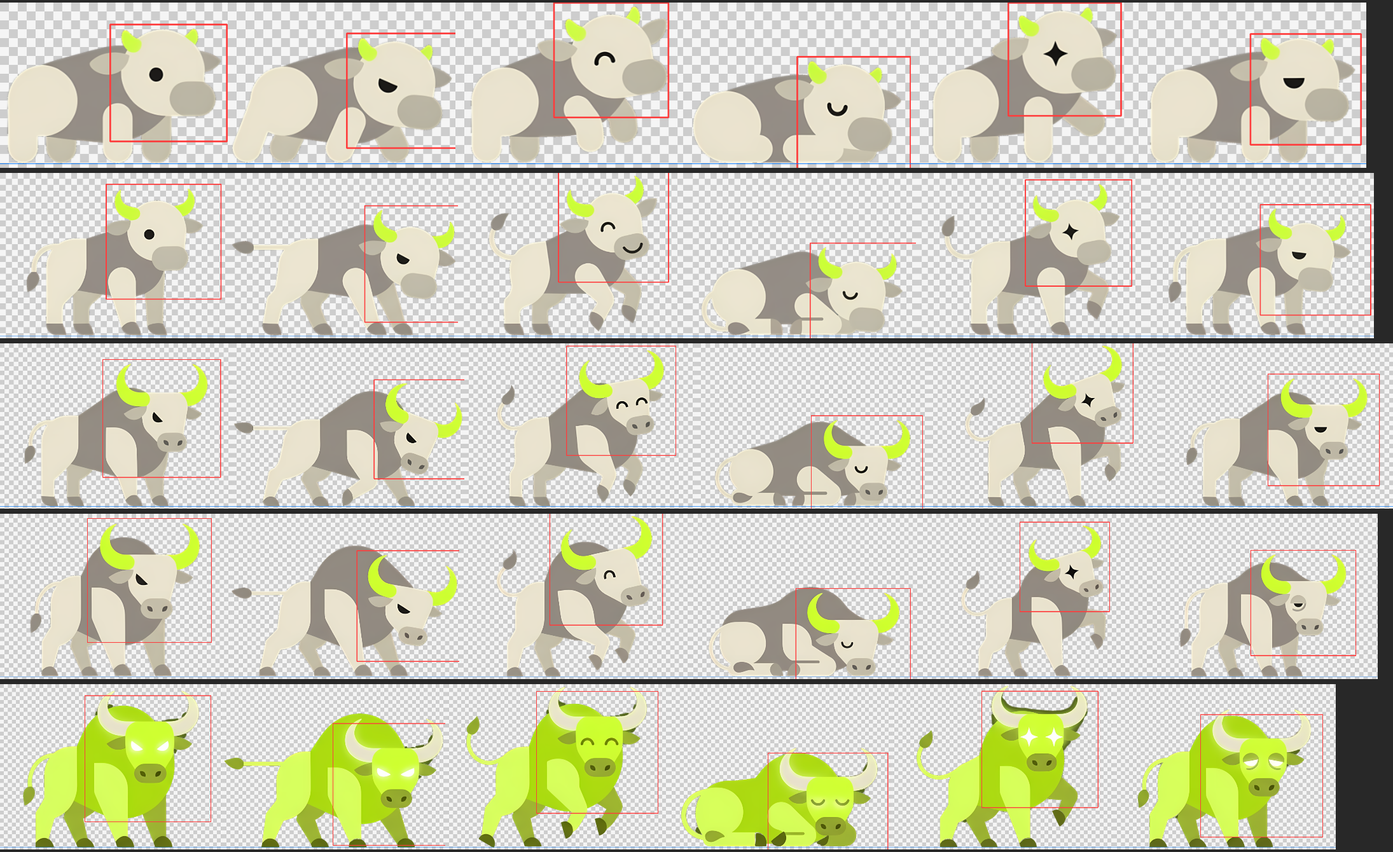
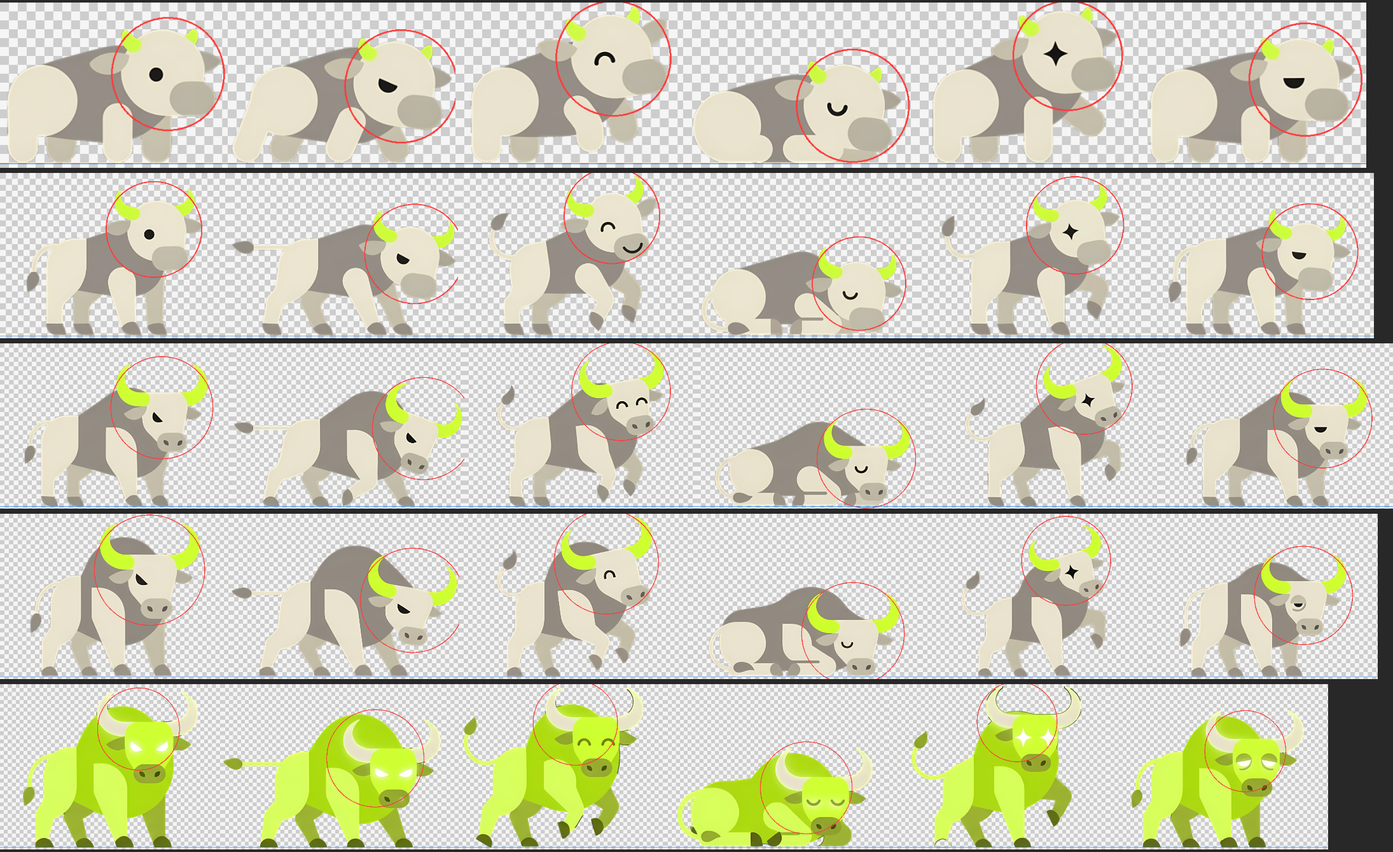
5.5c 验收反馈（进行中）：Milo 英文命名、舞台限高、头像圆形裁切、荧光角微光、Milo 抠图过渡版
- 跟 Milo 有关的文字一律写「Milo」，只在介绍时（故事引导、品牌命名）写「米洛（Milo）」
- Mascot 支持 --mascot-max-h：固定高度的舞台（牛龄演示、奖励弹窗、付费墙）按高度缩放，Milo 不再出格
- 头像框改为逐张标定的「头 + 角」（脚本 HEAD 表），MascotHead 圆形裁切，牛龄徽章头像铺满圆
- 非 Milo 另出 <牛龄>-<状态>-lime.webp（只有荧光的角），模糊后垫在图下当微光；Milo 保持全身泛光
- Milo 抠图过渡版：BiRefNet（HR-matting，2048）出 α + 硬边圈定牛身；源图辉光太强，待用户用 Nano Banana 出无辉光图后改回硬边抠图

Claude-Session: https://claude.ai/code/session_01VtzVRg4P2pmqxTgWpjWk5a

diff --git a/src/playground/catalog.tsx b/src/playground/catalog.tsx
@@ -65,9 +65,9 @@ export const CN: Record<string, string> = {
   track: '已开始 · 0 组', partial: '进行中', full: '满环', home: '首页', body: '身体', gains: '增量', log: '记录', me: '我的', success: '成功', undo: '可撤销',
   suggest: '建议减量', week: '减量周', quiet: '一行小字', 'pool-empty': '动作池不足', resume: '继续上次训练', info: '信息', page: '子页', session: '训练中',
   eyebrow: '带日期与附件', pill: '小胶囊', open: '展开', loadingState: '加载中',
-  newborn: '牛犊', young: '小牛', sturdy: '壮牛', bull: '公牛', milo: '米洛', 'm-idle': '平常', 'm-focused': '专注', 'm-happy': '开心', 'm-rest': '恢复日', 'm-pr': '破纪录', 'm-deload': '减量周', idle: '平常', training: '训练中',
-  'r-stage': '升段', 'r-milo': '升段 · 米洛', 'r-pr': '破纪录', 'r-streak': '连胜里程碑', 'r-level': '升小级', 'r-cycle': '周期完成', free: '免费', pro: 'Pro 会员',
-  'b-compact': '紧凑（「我的」顶部）', 'b-full': '完整（牛龄页头）', 'g-normal': '进行中', 'g-near': '快升级', 'g-stage': '下一级是升段', 'g-max': '米洛满级',
+  newborn: '牛犊', young: '小牛', sturdy: '壮牛', bull: '公牛', milo: 'Milo', 'm-idle': '平常', 'm-focused': '专注', 'm-happy': '开心', 'm-rest': '恢复日', 'm-pr': '破纪录', 'm-deload': '减量周', idle: '平常', training: '训练中',
+  'r-stage': '升段', 'r-milo': '升段 · Milo', 'r-pr': '破纪录', 'r-streak': '连胜里程碑', 'r-level': '升小级', 'r-cycle': '周期完成', free: '免费', pro: 'Pro 会员',
+  'b-compact': '紧凑（「我的」顶部）', 'b-full': '完整（牛龄页头）', 'g-normal': '进行中', 'g-near': '快升级', 'g-stage': '下一级是升段', 'g-max': 'Milo 满级',
   's-zero': '0 周', 's-open': '本周进行中', 's-kept': '本周已守约', 's-risk': '快断了', 's-frozen': '用了冻结卡', 's-deload': '减量周', 's-milestone': '里程碑周',
   'f-have': '有卡', 'f-none': '没卡', 'f-used': '刚自动使用', 'c-merchant': '商家券', 'c-shipping': '免邮券', 'c-trial': '会员体验', 'c-freeze': '冻结卡',
   'c-redeem': '可兑换', 'c-short': '牛劲不够', 'c-available': '可用', 'c-used': '已用', 'c-expired': '已过期', belt: '腰带', straps: '助力带', protein: '蛋白质与睡眠', creatine: '肌酸', knee: '护膝',
@@ -408,7 +408,7 @@ export const CATALOG: Entry[] = [
   },
   /* ---------------- 品牌（阶段 5.5b，2026-10-05） ---------------- */
   {
-    name: 'Mascot', group: '品牌', desc: 'IP 小牛（PNG）：用户按意向图 3_27AM 用 Nano Banana 高清重制，scripts/mascot_png.py 切图、Real-ESRGAN 4 倍超分、抠图（边缘反解透明度不留黑边，只留牛本身）。5 种牛龄（牛犊 · 小牛 · 壮牛 · 公牛 · 米洛）× 6 种状态；前四种单眼，米洛双眼发光。特效由代码生成：专注 = 速度线、恢复日 = 飘 z、破纪录 = 碎屑、米洛 = 泛光 + 四角星 + 扫光。同一牛龄同比例、同地面线，换状态不跳；动效以地面线为支点整只呼吸 / 前压 / 小跳 / 欢呼 / 叹气，减少动态效果时静止。只出现在品牌位置（引导、奖励、牛龄、空态、商城、会员）。',
+    name: 'Mascot', group: '品牌', desc: 'IP 小牛（PNG）：用户按意向图 3_27AM 用 Nano Banana 高清重制，scripts/mascot_png.py 切图、Real-ESRGAN 4 倍超分、抠图（边缘反解透明度不留黑边，只留牛本身；Milo 用 BiRefNet 直接出透明度，泛光扣得干净）。5 种牛龄（牛犊 · 小牛 · 壮牛 · 公牛 · Milo）× 6 种状态；前四种单眼，Milo 双眼发光。特效由代码生成：专注 = 速度线、恢复日 = 飘 z、破纪录 = 碎屑、Milo = 全身泛光 + 四角星 + 扫光；其余牛龄的荧光角带一圈会呼吸的微光。同一牛龄同比例、同地面线，换状态不跳；动效以地面线为支点整只呼吸 / 前压 / 小跳 / 欢呼 / 叹气，减少动态效果时静止。只出现在品牌位置（引导、奖励、牛龄、空态、商城、会员）。',
     axes: { stage: ['newborn', 'young', 'sturdy', 'bull', 'milo'], mood: ['m-idle', 'm-focused', 'm-happy', 'm-rest', 'm-pr', 'm-deload'] }, rows: ['stage'], cols: 'mood', size: 'card',
     render: (p) => <div className={s.mascotCell}><Mascot stage={p.stage as MascotStage} mood={p.mood.slice(2) as MascotMood} animate title="慢牛小牛" /></div>,
   },
@@ -424,13 +424,13 @@ export const CATALOG: Entry[] = [
   },
   {
     name: 'AgeBadge', group: '增长',
-    desc: '牛龄徽章：紧凑 = 「我的」根页顶部一行（头像 + 段名小级 + 连胜周数）；完整 = 牛龄页头（荧光圈头像 + 段名 + 三颗小级）。米洛的圈更亮。',
+    desc: '牛龄徽章：紧凑 = 「我的」根页顶部一行（头像 + 段名小级 + 连胜周数）；完整 = 牛龄页头（荧光圈头像 + 段名 + 三颗小级）。Milo 的圈更亮。',
     axes: { stage: ['newborn', 'young', 'sturdy', 'bull', 'milo'], size: ['b-compact', 'b-full'] }, rows: ['stage'], cols: 'size', size: 'card',
     render: (p) => <AgeBadge stage={p.stage as MascotStage} sub={p.stage === 'milo' ? 3 : 2} size={p.size === 'b-compact' ? 'compact' : 'full'} streak={p.size === 'b-compact' ? growthSample().streak.weeks : undefined} />,
   },
   {
     name: 'GrowthBar', group: '增长',
-    desc: '成长条：离下一级还差多少，用能照着做的说法（主项预估 1RM 再涨几 kg，或再完成几个周期），由引擎反推；快升级时发光扫光；下一级是升段时标出；米洛 3 级满级。',
+    desc: '成长条：离下一级还差多少，用能照着做的说法（主项预估 1RM 再涨几 kg，或再完成几个周期），由引擎反推；快升级时发光扫光；下一级是升段时标出；Milo 3 级满级。',
     axes: { state: ['g-normal', 'g-near', 'g-stage', 'g-max'] }, size: 'card',
     render: (p) => {
       const g = growthSample(), n = g.next!;
@@ -488,7 +488,7 @@ export const CATALOG: Entry[] = [
   },
   {
     name: 'Paywall', group: '增长',
-    desc: '会员付费墙（演示不拦截）：免费 vs Pro 对比 + 月度 / 年度（省 40%）/ 试用 7 天；已是会员显示到期与管理；开通成功是米洛庆祝。全程标「演示模式」，支付走假成功，不收集支付信息。',
+    desc: '会员付费墙（演示不拦截）：免费 vs Pro 对比 + 月度 / 年度（省 40%）/ 试用 7 天；已是会员显示到期与管理；开通成功是 Milo 庆祝。全程标「演示模式」，支付走假成功，不收集支付信息。',
     axes: { state: ['w-month', 'w-year', 'w-trial', 'w-member', 'w-success'] }, size: 'screen',
     render: (p) => <Paywall plan={p.state === 'w-year' ? 'year' : p.state === 'w-trial' ? 'trial' : 'month'} member={p.state === 'w-member'} success={p.state === 'w-success'} />,
   },
@@ -508,7 +508,7 @@ export const CATALOG: Entry[] = [
     },
   },
   {
-    name: 'MascotHead', group: '品牌', desc: '只有头：16–48 像素的头像、通知、Toast、牛龄徽章。同一张 PNG 按头像框（以角为锚取正方形）裁出来。',
+    name: 'MascotHead', group: '品牌', desc: '只有头：16–48 像素的头像、通知、Toast、牛龄徽章。同一张 PNG 按逐张标定的头像框（头 + 角）裁成圆形；非 Milo 的角带一圈荧光微光，Milo 整只泛光。',
     axes: { stage: ['newborn', 'young', 'sturdy', 'bull', 'milo'], mood: ['m-idle', 'm-happy', 'm-pr', 'm-rest', 'm-deload'] }, rows: ['stage'], cols: 'mood', size: 'auto',
     render: (p) => <MascotHead stage={p.stage as MascotStage} mood={p.mood.slice(2) as MascotMood} className={s.mascotHead} />,
   },

diff --git a/src/components/Mascot.tsx b/src/components/Mascot.tsx
@@ -1,10 +1,11 @@
 /** IP 小牛（2026-10-05 起用 PNG）：用户用 Nano Banana 按意向图 3_27AM 高清重制的状态板（docs/A.jpg、B1–B5.jpg），
- *  由 scripts/mascot_png.py 切图、Real-ESRGAN 4 倍超分、抠图（边缘反解 α，去黑边；只留牛本身，米洛的泛光也扣掉），按牛龄统一比例和地面线，
+ *  由 scripts/mascot_png.py 切图、Real-ESRGAN 4 倍超分、抠图（边缘反解 α，去黑边；只留牛本身，Milo 的泛光也扣掉），按牛龄统一比例和地面线，
  *  导出到 public/mascot/<牛龄>-<状态>.webp（PNG 母版在 design/brand/mascot/），尺寸与头像框在 mascotAssets.ts。
- *  - 5 种牛龄：牛犊 → 小牛 → 壮牛 → 公牛 → 米洛（最高等级：全身荧光、双眼发光）。
- *    前四种单眼（头三分之四侧转），米洛双眼正脸。
+ *  - 5 种牛龄：牛犊 → 小牛 → 壮牛 → 公牛 → Milo（最高等级：全身荧光、双眼发光）。
+ *    前四种单眼（头三分之四侧转），Milo 双眼正脸。
  *  - 6 种状态：平常 / 专注 / 开心 / 恢复日 / 破纪录 / 减量周。图里只有牛本身；特效由代码生成（用户 2026-10-05）：
- *    专注 = 身后速度线，恢复日 = 头顶飘 z，破纪录 = 头边一圈碎屑，米洛 = 泛光 + 四角星 + 扫光。位置按 mascotAssets 里的头像框和牛身外框算。
+ *    专注 = 身后速度线，恢复日 = 头顶飘 z，破纪录 = 头边一圈碎屑，Milo = 泛光 + 四角星 + 扫光。位置按 mascotAssets 里的头像框和牛身外框算。
+ *  - 荧光微光（用户 2026-10-05）：非 Milo 的荧光只在角上，脚本另出一张只有角的 -lime.webp，模糊后垫在图下面当微光；Milo 是全身泛光。
  *  - animate：整只按状态做呼吸、前压、小跳、深呼吸、欢呼、叹气（以地面线为支点）；系统开启「减少动态效果」时静止。 */
 import type { CSSProperties } from 'react';
 import { MASCOT_ASSETS, type MascotMood, type MascotStage } from './mascotAssets';
@@ -13,32 +14,34 @@ import s from './Mascot.module.css';
 export type { MascotMood, MascotStage };
 export const MASCOT_STAGES: MascotStage[] = ['newborn', 'young', 'sturdy', 'bull', 'milo'];
 export const MASCOT_MOODS: MascotMood[] = ['idle', 'focused', 'happy', 'rest', 'pr', 'deload'];
-export const STAGE_NAME: Record<MascotStage, string> = { newborn: '牛犊', young: '小牛', sturdy: '壮牛', bull: '公牛', milo: '米洛' };
+export const STAGE_NAME: Record<MascotStage, string> = { newborn: '牛犊', young: '小牛', sturdy: '壮牛', bull: '公牛', milo: 'Milo' };
 export const MOOD_NAME: Record<MascotMood, string> = { idle: '平常', focused: '专注', happy: '开心', rest: '恢复日', pr: '破纪录', deload: '减量周' };
 
-const src = (stage: MascotStage, mood: MascotMood) => `${import.meta.env.BASE_URL}mascot/${stage}-${mood}.webp`;
+const src = (stage: MascotStage, mood: MascotMood, layer = '') => `${import.meta.env.BASE_URL}mascot/${stage}-${mood}${layer}.webp`;
 
 /** 碎屑：[角度°, 离头中心的距离（头宽的倍数）, 大小（头宽的倍数）, 形状 t = 三角 / d = 圆点, 是否荧光] */
 const CONFETTI: Array<[number, number, number, 't' | 'd', boolean]> = [
   [-175, 0.62, 0.1, 't', false], [-150, 0.7, 0.07, 'd', false], [-125, 0.66, 0.09, 't', true], [-100, 0.72, 0.07, 'd', false],
   [-75, 0.68, 0.1, 't', false], [-50, 0.72, 0.07, 'd', true], [-25, 0.66, 0.09, 't', false], [0, 0.7, 0.07, 'd', false],
 ];
-/** 米洛的四角星：[x, y]（牛身外框的比例）, 大小（牛身宽的比例） */
+/** Milo 的四角星：[x, y]（牛身外框的比例）, 大小（牛身宽的比例） */
 const SPARKS: Array<[number, number, number]> = [[0.12, 0.08, 0.05], [0.95, -0.02, 0.04], [0.38, -0.06, 0.03], [-0.04, 0.4, 0.035], [1.02, 0.42, 0.03]];
 
-/** 整只小牛。宽度 = 画布宽 × --mascot-unit（默认 0.04em；同一个 unit 下 5 种牛龄保持相对大小），也可以直接用 className 设宽 */
+/** 整只小牛。宽度 = 画布宽 × --mascot-unit（默认 0.04em；同一个 unit 下 5 种牛龄保持相对大小），也可以直接用 className 设宽。
+ *  容器可以设 --mascot-max-h：画布高超过它时整只等比缩小（Milo 最高，加上四角星和泛光，固定高度的舞台要靠它才不出格） */
 export function Mascot({ stage = 'newborn', mood = 'idle', animate, className, title }: { stage?: MascotStage; mood?: MascotMood; animate?: boolean; className?: string; title?: string }) {
   const a = MASCOT_ASSETS[stage];
   const url = src(stage, mood);
   const { head: [hx, hy, hs], body: [bx0, by0, bx1, by1] } = a.moods[mood];
   const X = (v: number) => `${((v / a.w) * 100).toFixed(2)}%`, Y = (v: number) => `${((v / a.h) * 100).toFixed(2)}%`;
-  const style = { '--fig-w': a.w, '--fig-ratio': `${a.w} / ${a.h}`, '--ground': `${((a.ground / a.h) * 100).toFixed(2)}%`, '--src': `url("${url}")` } as CSSProperties;
+  const style = { '--fig-w': a.w, '--fig-h': a.h, '--fig-ratio': `${a.w} / ${a.h}`, '--ground': `${((a.ground / a.h) * 100).toFixed(2)}%`, '--src': `url("${url}")` } as CSSProperties;
   const milo = stage === 'milo';
   const bw = bx1 - bx0, bh = by1 - by0, hcx = hx + hs / 2, hcy = hy + hs / 2;
   return (
-    <span className={`${className ?? s.mascot} ${milo ? s.milo : ''} ${animate ? `${s.alive} ${s[`m_${mood}`]}` : ''}`} style={style}
+    <span className={`${s.root} ${className ?? s.mascot} ${milo ? s.milo : ''} ${animate ? `${s.alive} ${s[`m_${mood}`]}` : ''}`} style={style}
       role={title ? 'img' : undefined} aria-label={title} aria-hidden={title ? undefined : true}>
       <span className={s.fig}>
+        {!milo && <img className={s.lime} src={src(stage, mood, '-lime')} alt="" draggable={false} />}
         <img className={s.img} src={url} alt="" width={a.w} height={a.h} draggable={false} />
         {milo && <span className={s.sheen} />}
         {/* 代码生成的特效：只在图之上叠，位置都是画布的百分比 */}
@@ -61,16 +64,18 @@ export function Mascot({ stage = 'newborn', mood = 'idle', animate, className, t
   );
 }
 
-/** 只有头（16–48px 的头像、通知、Toast、牛龄徽章）：同一张图按头像框裁成正方形 */
+/** 只有头（16–48px 的头像、通知、Toast、牛龄徽章）：同一张图按头像框（逐张标定的头 + 角）裁成圆形 */
 export function MascotHead({ stage = 'bull', mood = 'idle', className, title }: { stage?: MascotStage; mood?: MascotMood; className?: string; title?: string }) {
   const a = MASCOT_ASSETS[stage];
   const [x, y, side] = a.moods[mood].head;
   const pct = (v: number) => `${((v / side) * 100).toFixed(2)}%`;
+  const box = { width: pct(a.w), left: pct(-x), top: pct(-y) };
+  const milo = stage === 'milo';
   return (
-    <span className={className ?? s.head} role={title ? 'img' : undefined} aria-label={title} aria-hidden={title ? undefined : true}>
+    <span className={`${className ?? s.head} ${milo ? s.headMilo : ''}`} role={title ? 'img' : undefined} aria-label={title} aria-hidden={title ? undefined : true}>
       <span className={s.headClip}>
-        <img className={s.headImg} src={src(stage, mood)} alt="" draggable={false}
-          style={{ width: pct(a.w), left: pct(-x), top: pct(-y) }} />
+        {!milo && <img className={`${s.headImg} ${s.headLime}`} src={src(stage, mood, '-lime')} alt="" draggable={false} style={box} />}
+        <img className={s.headImg} src={src(stage, mood)} alt="" draggable={false} style={box} />
       </span>
     </span>
   );

diff --git a/src/components/Mascot.module.css b/src/components/Mascot.module.css
@@ -1,10 +1,15 @@
-/* IP 小牛（PNG）：图里只有牛本身；这里管尺寸、动效和代码生成的特效（速度线、z、碎屑、米洛的泛光 / 星光 / 扫光） */
-.mascot { display: inline-block; width: calc(var(--fig-w) * var(--mascot-unit, 0.04em)); max-width: 100%; vertical-align: bottom; }
+/* IP 小牛（PNG）：图里只有牛本身；这里管尺寸、动效和代码生成的特效（速度线、z、碎屑、Milo 的泛光 / 星光 / 扫光） */
+.mascot { display: inline-block; width: min(calc(var(--fig-w) * var(--mascot-unit, 0.04em)), calc(var(--mascot-max-h, 100vh) * var(--fig-w) / var(--fig-h))); max-width: 100%; vertical-align: bottom; }
 .fig { position: relative; display: block; width: 100%; aspect-ratio: var(--fig-ratio); transform-origin: 50% var(--ground); }
-.img { display: block; width: 100%; height: 100%; object-fit: contain; user-select: none; -webkit-user-drag: none; }
+.root { --glow: calc(var(--fig-w) * var(--mascot-unit, 0.04em) * 0.008); }
+.img { position: relative; display: block; width: 100%; height: 100%; object-fit: contain; user-select: none; -webkit-user-drag: none; }
 
-/* 米洛：泛光（两层荧光 drop-shadow，一近一远）+ 一道斜光扫过全身（用同一张图当遮罩，只扫在牛身上）+ 四角星 */
-.milo { --glow: calc(var(--fig-w) * var(--mascot-unit, 0.04em) * 0.008); }
+/* Milo：泛光（两层荧光 drop-shadow，一近一远）+ 一道斜光扫过全身（用同一张图当遮罩，只扫在牛身上）+ 四角星 */
+/* 非 Milo：只有角的那张图模糊后垫在下面，角周围一圈荧光微光（会动时慢慢呼吸） */
+.lime { position: absolute; inset: 0; width: 100%; height: 100%; pointer-events: none; opacity: 0.85;
+  filter: blur(calc(var(--glow) * 1.6)) saturate(1.3); }
+.alive .lime { animation: limeGlow calc(var(--milo-motion-slow) * 9.1) ease-in-out infinite; }
+@keyframes limeGlow { 0%, 100% { opacity: 0.6; } 50% { opacity: 1; } }
 .milo .img { filter: drop-shadow(0 0 var(--glow) color-mix(in srgb, var(--milo-prim-lime-500) 70%, transparent)) drop-shadow(0 0 calc(var(--glow) * 3.2) color-mix(in srgb, var(--milo-prim-lime-500) 28%, transparent)); }
 .sheen { position: absolute; inset: 0; pointer-events: none; mix-blend-mode: screen;
   background: linear-gradient(105deg, transparent 35%, color-mix(in srgb, var(--milo-prim-bone-100) 70%, transparent) 50%, transparent 65%) no-repeat;
@@ -17,7 +22,7 @@
 .speed, .z, .confetti, .spark { position: absolute; pointer-events: none; }
 /* 专注：身后三道速度线 */
 .speed { border-radius: var(--milo-radius-pill); background: color-mix(in srgb, var(--milo-prim-bone-100) 55%, transparent); }
-.milo .speed { background: var(--milo-prim-lime-500); }
+.milo .speed { background: var(--milo-prim-lime-500); box-shadow: 0 0 var(--glow) var(--milo-prim-lime-500); }
 .alive .speed { animation: speed calc(var(--milo-motion-slow) * 2.6) linear calc(var(--k) * var(--milo-motion-slow) * -0.7) infinite; }
 @keyframes speed { 0% { transform: translateX(30%) scaleX(0.2); opacity: 0; } 30% { opacity: 1; } 100% { transform: translateX(-40%) scaleX(1); opacity: 0; } }
 /* 恢复日：头顶两个 z，往上飘 */
@@ -34,15 +39,18 @@
 .dot { border-radius: 50%; }
 .alive .confetti { animation: burst calc(var(--milo-motion-slow) * 4.6) var(--milo-motion-ease-decelerate) calc(var(--k) * var(--milo-motion-slow) * -0.3) infinite; }
 @keyframes burst { 0% { opacity: 0; transform: translate(0, 20%) rotate(var(--rot)) scale(0.4); } 20% { opacity: 1; } 70% { opacity: 1; transform: translate(0, -20%) rotate(calc(var(--rot) + 60deg)) scale(1); } 100% { opacity: 0; transform: translate(0, -30%) rotate(calc(var(--rot) + 90deg)) scale(0.8); } }
-/* 米洛：四角星闪烁 */
+/* Milo：四角星闪烁 */
 .spark { aspect-ratio: 1; background: var(--milo-prim-lime-300); clip-path: polygon(50% 0, 62% 38%, 100% 50%, 62% 62%, 50% 100%, 38% 62%, 0 50%, 38% 38%); }
 .alive .spark { animation: spark calc(var(--milo-motion-slow) * 5.7) ease-in-out calc(var(--k) * var(--milo-motion-slow) * -1.3) infinite; }
 @keyframes spark { 0%, 100% { opacity: 0.25; transform: scale(0.55) rotate(0deg); } 50% { opacity: 1; transform: scale(1.1) rotate(45deg); } }
 
 /* 头像：正方形窗口，图按头像框定位 */
 .head { display: inline-block; width: var(--milo-size-icon); height: var(--milo-size-icon); vertical-align: middle; }
-.headClip { position: relative; display: block; width: 100%; height: 100%; overflow: hidden; }
+.headClip { position: relative; display: block; width: 100%; height: 100%; overflow: hidden; border-radius: 50%; }
 .headImg { position: absolute; max-width: none; height: auto; user-select: none; }
+/* 头像的荧光：非 Milo 角上一圈微光；Milo 整只泛光（圆里只看得到头，光沿着头和角的轮廓） */
+.headLime { filter: blur(calc(var(--milo-stroke-hairline) * 2)); opacity: 0.9; }
+.headMilo .headImg { filter: drop-shadow(0 0 var(--milo-stroke-hairline) color-mix(in srgb, var(--milo-prim-lime-500) 80%, transparent)) drop-shadow(0 0 calc(var(--milo-stroke-hairline) * 3) color-mix(in srgb, var(--milo-prim-lime-500) 35%, transparent)); }
 
 /* ---------- 动效（animate）：整只以地面线为支点；周期用 motion/slow 的倍数，首尾帧相同 ---------- */
 .m_idle .fig { animation: breathe calc(var(--milo-motion-slow) * 13.7) ease-in-out infinite; }
@@ -81,5 +89,5 @@
 @keyframes sigh { 0%, 100% { transform: scale(1, 1); } 40% { transform: scale(1.01, 1.025); } 60% { transform: scale(1, 0.985); } }
 
 @media (prefers-reduced-motion: reduce) {
-  .alive .fig, .alive .sheen, .alive .speed, .alive .z, .alive .confetti, .alive .spark { animation: none !important; }
+  .alive .fig, .alive .lime, .alive .sheen, .alive .speed, .alive .z, .alive .confetti, .alive .spark { animation: none !important; }
 }

diff --git a/src/components/mascotAssets.ts b/src/components/mascotAssets.ts
@@ -1,6 +1,7 @@
 /** 由 scripts/mascot_png.py 生成，勿手改：IP 小牛 PNG 素材的画布尺寸（像素）、地面线 y、各状态的头像裁切框 [x, y, 边长]。
+ *  头像框是逐张标定的「头 + 角」，已外扩成能放进圆形的正方形。非 Milo 另有 <牛龄>-<状态>-lime.webp（只有荧光的角，叠微光用）。
  *  body = 牛身外框 [x0, y0, x1, y1]（App 按它和头像框摆放代码生成的特效）。图片在 public/mascot/<牛龄>-<状态>.webp（PNG 母版在 design/brand/mascot/）。同一牛龄 6 张同画布、同比例、同地面线。 */
 export type MascotStage = 'newborn' | 'young' | 'sturdy' | 'bull' | 'milo';
 export type MascotMood = 'idle' | 'focused' | 'happy' | 'rest' | 'pr' | 'deload';
 export interface MascotAsset { w: number; h: number; ground: number; moods: Record<MascotMood, { head: [number, number, number, number]; body: [number, number, number, number] }> }
-export const MASCOT_ASSETS: Record<MascotStage, MascotAsset> = {"newborn":{"w":410,"h":297,"ground":289.1,"moods":{"idle":{"head":[198,39,210,210],"body":[14,47,398,288]},"focused":{"head":[214,55,206,206],"body":[8,64,403,287]},"happy":{"head":[177,0,206,206],"body":[28,7,381,287]},"rest":{"head":[205,97,204,204],"body":[18,105,392,288]},"pr":{"head":[175,0,203,203],"body":[40,9,371,287]},"deload":{"head":[201,56,199,199],"body":[21,64,389,288]}}},"young":{"w":618,"h":446,"ground":439.1,"moods":{"idle":{"head":[286,30,310,310],"body":[72,42,548,437]},"focused":{"head":[366,88,314,314],"body":[9,100,611,437]},"happy":{"head":[271,-3,297,297],"body":[84,8,537,437]},"rest":{"head":[332,189,303,303],"body":[39,201,581,437]},"pr":{"head":[295,18,287,287],"body":[70,30,550,437]},"deload":{"head":[311,85,298,298],"body":[64,96,556,437]}}},"sturdy":{"w":814,"h":579,"ground":571.7,"moods":{"idle":{"head":[360,56,413,413],"body":[86,72,727,570]},"focused":{"head":[497,127,347,347],"body":[7,140,806,570]},"happy":{"head":[358,9,383,383],"body":[115,25,699,570]},"rest":{"head":[402,253,390,390],"body":[65,269,749,569]},"pr":{"head":[362,-5,354,354],"body":[129,9,687,571]},"deload":{"head":[375,107,391,391],"body":[90,123,724,571]}}},"bull":{"w":836,"h":602,"ground":594.1,"moods":{"idle":{"head":[318,17,451,451],"body":[111,36,727,591]},"focused":{"head":[463,134,403,403],"body":[8,116,828,591]},"happy":{"head":[329,-6,411,411],"body":[136,9,701,592]},"rest":{"head":[389,272,417,417],"body":[73,267,766,591]},"pr":{"head":[369,30,326,326],"body":[156,44,682,592]},"deload":{"head":[373,133,383,383],"body":[117,149,720,593]}}},"milo":{"w":903,"h":669,"ground":659.3,"moods":{"idle":{"head":[344,46,511,511],"body":[94,27,807,662]},"focused":{"head":[447,159,493,493],"body":[7,119,894,662]},"happy":{"head":[370,29,493,493],"body":[86,11,818,662]},"rest":{"head":[406,278,486,486],"body":[54,259,850,657]},"pr":{"head":[370,28,471,471],"body":[106,7,800,661]},"deload":{"head":[354,123,496,496],"body":[101,103,803,661]}}}};
+export const MASCOT_ASSETS: Record<MascotStage, MascotAsset> = {"newborn":{"w":410,"h":297,"ground":289.1,"moods":{"idle":{"head":[201,27,202,202],"body":[14,47,398,288]},"focused":{"head":[211,49,202,202],"body":[8,64,403,287]},"happy":{"head":[181,-3,207,207],"body":[28,7,381,287]},"rest":{"head":[204,84,202,202],"body":[18,105,392,288]},"pr":{"head":[184,-3,196,196],"body":[40,9,371,287]},"deload":{"head":[199,37,202,202],"body":[21,64,389,288]}}},"young":{"w":618,"h":446,"ground":439.1,"moods":{"idle":{"head":[286,23,258,258],"body":[72,42,548,437]},"focused":{"head":[366,84,269,269],"body":[9,100,611,437]},"happy":{"head":[286,-14,258,258],"body":[84,8,537,437]},"rest":{"head":[338,172,252,252],"body":[39,201,581,437]},"pr":{"head":[298,10,263,263],"body":[70,30,550,437]},"deload":{"head":[316,83,258,258],"body":[64,96,556,437]}}},"sturdy":{"w":814,"h":579,"ground":571.7,"moods":{"idle":{"head":[388,46,358,358],"body":[86,72,727,570]},"focused":{"head":[491,119,358,358],"body":[7,140,806,570]},"happy":{"head":[376,-6,347,347],"body":[115,25,699,570]},"rest":{"head":[422,230,347,347],"body":[65,269,749,569]},"pr":{"head":[377,-18,336,336],"body":[129,9,687,571]},"deload":{"head":[394,90,347,347],"body":[90,123,724,571]}}},"bull":{"w":836,"h":602,"ground":594.1,"moods":{"idle":{"head":[343,4,403,403],"body":[111,36,727,591]},"focused":{"head":[476,125,381,381],"body":[8,116,828,591]},"happy":{"head":[345,-15,381,381],"body":[136,9,701,592]},"rest":{"head":[410,250,375,375],"body":[73,267,766,591]},"pr":{"head":[375,9,325,325],"body":[156,44,682,592]},"deload":{"head":[386,118,358,358],"body":[117,149,720,593]}}},"milo":{"w":902,"h":672,"ground":662.3,"moods":{"idle":{"head":[397,15,335,335],"body":[94,30,807,665]},"focused":{"head":[429,103,397,397],"body":[7,122,894,665]},"happy":{"head":[368,-15,344,344],"body":[86,14,818,665]},"rest":{"head":[392,234,374,374],"body":[54,262,850,660]},"pr":{"head":[373,-11,326,326],"body":[106,8,799,664]},"deload":{"head":[399,107,331,331],"body":[100,105,803,664]}}}};

diff --git a/src/lab/Brand.tsx b/src/lab/Brand.tsx
@@ -39,10 +39,10 @@ export function Brand() {
       <header className={s.hero}>
         <p className={`milo-text-label ${s.muted}`}>阶段 5.5b · 2026-10-05</p>
         <h1 className="milo-text-title-l">IP 小牛与 Logo</h1>
-        <p className={`milo-text-body ${s.muted}`}>IP 改用 PNG：用户按意向图 3_27AM 用 Nano Banana 高清重制了 5 种牛龄 × 6 种状态，这里是切图、4 倍超分、抠图之后的素材，图里只有牛本身，特效由代码生成。前四种牛龄单眼，米洛双眼发光。Logo 为 B 递增条牛头，破纪录与减量周状态已重做。</p>
+        <p className={`milo-text-body ${s.muted}`}>IP 改用 PNG：用户按意向图 3_27AM 用 Nano Banana 高清重制了 5 种牛龄 × 6 种状态，这里是切图、4 倍超分、抠图之后的素材，图里只有牛本身，特效由代码生成。前四种牛龄单眼，Milo 双眼发光。Logo 为 B 递增条牛头，破纪录与减量周状态已重做。</p>
       </header>
 
-      <Section id="ip-stages" title="IP · 五种牛龄" sub="牛犊 → 小牛 → 壮牛 → 公牛 → 米洛，大小按总览图 A 的相对身高。米洛是最高等级：全身荧光、双眼发光；泛光、四角星和扫光由代码生成。">
+      <Section id="ip-stages" title="IP · 五种牛龄" sub="牛犊 → 小牛 → 壮牛 → 公牛 → 米洛（Milo），大小按总览图 A 的相对身高。Milo 是最高等级：全身荧光、双眼发光；泛光、四角星和扫光由代码生成。">
         <div className={s.stageRow}>
           {MASCOT_STAGES.map((st) => (
             <figure key={st} className={s.stageCell}>
@@ -53,7 +53,7 @@ export function Brand() {
         </div>
       </Section>
 
-      <Section id="ip-hd" title="高清化与抠图" sub="scripts/mascot_png.py：①从状态板切出每只牛，只留牛本身（碎屑、z、速度线、星光、泛光都不要，进 App 时由代码生成）；②Real-ESRGAN anime 模型 4 倍超分，去掉 JPEG 块状噪点、边缘变锐；③在 4 倍图上抠图：边缘按「像素 = α·前景 + (1−α)·背景」反解透明度并换成最近的实心色，不留黑边；被脸包住的眼睛、鼻孔保持实心；米洛外面那圈泛光当底色扣掉；④同一牛龄 6 张同比例、同地面线、同画布，换状态不跳。">
+      <Section id="ip-hd" title="高清化与抠图" sub="scripts/mascot_png.py：①从状态板切出每只牛，只留牛本身（碎屑、z、速度线、星光、泛光都不要，进 App 时由代码生成）；②Real-ESRGAN anime 模型 4 倍超分，去掉 JPEG 块状噪点、边缘变锐；③在 4 倍图上抠图：边缘按「像素 = α·前景 + (1−α)·背景」反解透明度并换成最近的实心色，不留黑边；被脸包住的眼睛、鼻孔保持实心；Milo 改用 BiRefNet（HR-matting，2048 输入）直接预测透明度，只留牛身、去掉泛光雾，边缘换成最近的实心色；④同一牛龄 6 张同比例、同地面线、同画布，换状态不跳。">
         <div className={s.checkCol}>
           <p className="milo-text-body">素材在 public/mascot/&lt;牛龄&gt;-&lt;状态&gt;.webp（App 用），PNG 母版在 design/brand/mascot/；检查图 screenshots/brand/mascot-sheet-checker.png（棋盘格 = 透明，红框 = 头像裁切，蓝线 = 地面线）。</p>
         </div>
@@ -80,7 +80,7 @@ export function Brand() {
             </div>
           ))}
           <div className={s.smallCol}>{(['happy', 'pr', 'rest', 'deload'] as MascotMood[]).map((m) => <MascotHead key={m} stage="bull" mood={m} className={s.h48} />)}<span className="milo-text-micro">公牛 · 表情</span></div>
-          <div className={s.smallCol}>{(['happy', 'pr', 'rest', 'deload'] as MascotMood[]).map((m) => <MascotHead key={m} stage="milo" mood={m} className={s.h48} />)}<span className="milo-text-micro">米洛 · 表情</span></div>
+          <div className={s.smallCol}>{(['happy', 'pr', 'rest', 'deload'] as MascotMood[]).map((m) => <MascotHead key={m} stage="milo" mood={m} className={s.h48} />)}<span className="milo-text-micro">Milo · 表情</span></div>
         </div>
       </Section>
 
@@ -138,7 +138,7 @@ export function Brand() {
               <div className={s.rewardArt}><Mascot stage="bull" mood="pr" animate /></div>
               <p className={`milo-text-label ${s.lime}`}>升段</p>
               <h3 className="milo-text-title-m">壮牛长成公牛了</h3>
-              <p className={`milo-text-body ${s.muted}`}>近 8 周深蹲预估 1RM +12.5 kg。下一段：米洛。</p>
+              <p className={`milo-text-body ${s.muted}`}>近 8 周深蹲预估 1RM +12.5 kg。下一段：Milo。</p>
               <p className={s.gain}><b>+500</b> 牛劲</p>
               <span className={s.cta}>收下</span>
             </div>

diff --git a/src/playground/demos.tsx b/src/playground/demos.tsx
@@ -257,7 +257,7 @@ function MascotDemo() {
       <div className={s.demoButtons}>{MASCOT_STAGES.map((st) => <Button key={st} kind={stage === st ? 'neutral' : 'ghost'} size="s" onClick={() => setStage(st)}>{STAGE_NAME[st]}</Button>)}</div>
       <div className={s.demoButtons}>{MASCOT_MOODS.map((m) => <Button key={m} kind={mood === m ? 'neutral' : 'ghost'} size="s" onClick={() => setMood(m)}>{MOOD_NAME[m]}</Button>)}</div>
       <div className={s.mascotStage}><Mascot stage={stage} mood={mood} animate title={`${STAGE_NAME[stage]} · ${MOOD_NAME[mood]}`} /></div>
-      <Note>5 种牛龄 × 6 种状态（PNG）。前四种单眼，米洛双眼发光；速度线、z、碎屑、米洛的泛光 / 星光 / 扫光都由代码生成；换状态时比例与地面线不变。系统开启「减少动态效果」时静止。</Note>
+      <Note>5 种牛龄 × 6 种状态（PNG）。前四种单眼，Milo 双眼发光；速度线、z、碎屑、Milo 的泛光 / 星光 / 扫光都由代码生成；换状态时比例与地面线不变。系统开启「减少动态效果」时静止。</Note>
     </div>
   );
 }
@@ -287,7 +287,7 @@ function RewardInner() {
   return (
     <div className={s.demoPad}>
       <div className={s.demoButtons}>{(['stage', 'milo', 'pr', 'streak', 'level', 'cycle'] as const).map((k) => (
-        <Button key={k} kind="ghost" size="s" onClick={() => play(k)}>{k === 'milo' ? '升段 · 米洛' : REWARD_NAME[k]}</Button>
+        <Button key={k} kind="ghost" size="s" onClick={() => play(k)}>{k === 'milo' ? '升段 · Milo' : REWARD_NAME[k]}</Button>
       ))}</div>
       <div className={s.demoButtons}>
         <Button kind="neutral" size="s" onClick={step}>保存下一次训练</Button>
@@ -322,7 +322,7 @@ function LevelCurve({ users, target, lv }: { users: Record<'novice' | 'intermedi
   );
 }
 
-/** 牛龄拖条：从牛犊 1 拖到米洛 3，徽章、成长条、小牛一起变；下面是三类合成用户到达每一级的周数（等级曲线模拟） */
+/** 牛龄拖条：从牛犊 1 拖到 Milo 3，徽章、成长条、小牛一起变；下面是三类合成用户到达每一级的周数（等级曲线模拟） */
 function AgeInner() {
   const [lv, setLv] = useState(4);
   const { stage, sub } = levelInfo(lv);
@@ -343,10 +343,10 @@ function AgeInner() {
 }
 function AgeDemo() {
   return <div className={s.demoCol}><Stage tall label="牛龄演示"><AgeInner /></Stage>
-    <Note>15 级门槛由等级曲线模拟反推：进阶用户稳定训练，小牛约 2 个月、壮牛约 6 个月、公牛约 12 个月、米洛约 24 个月；新手更快，老手靠周期和 PR 也能稳步升级。成长条下面那句「再涨几 kg」由引擎按当前主项反推。</Note></div>;
+    <Note>15 级门槛由等级曲线模拟反推：进阶用户稳定训练，小牛约 2 个月、壮牛约 6 个月、公牛约 12 个月、Milo 约 24 个月；新手更快，老手靠周期和 PR 也能稳步升级。成长条下面那句「再涨几 kg」由引擎按当前主项反推。</Note></div>;
 }
 
-/** 付费墙流程：选方案 → 开通（演示，不扣费）→ 米洛庆祝 → 会员态 */
+/** 付费墙流程：选方案 → 开通（演示，不扣费）→ Milo 庆祝 → 会员态 */
 function PaywallInner() {
   const [plan, setPlan] = useState<'month' | 'year' | 'trial'>('year'), [step, setStep] = useState<'choose' | 'success' | 'member'>('choose');
   return (

diff --git a/src/engine/growth.ts b/src/engine/growth.ts
@@ -3,7 +3,7 @@
  *
  *  双轨：
  *  - 牛龄 = 成长值，只因「变强」上涨：预估 1RM 创新高的相对增幅（按动作分量加权、每动作每周封顶）+ PR + 完成训练周期。
- *    5 段 × 3 小级 = 15 级，门槛由等级曲线模拟定（growth.sim.ts，2026-10-05 用户拍板：按百分比、小牛≈2 月 / 壮牛≈6 月 / 公牛≈12 月 / 米洛≈24 月、一律从牛犊起步）。
+ *    5 段 × 3 小级 = 15 级，门槛由等级曲线模拟定（growth.sim.ts，2026-10-05 用户拍板：按百分比、小牛≈2 月 / 壮牛≈6 月 / 公牛≈12 月 / Milo≈24 月、一律从牛犊起步）。
  *  - 守约周连胜 = 粘性：一周（周一到周日）按处方练够次数，且没在某肌头恢复度 < 50% 时练它；减量周按计划完成也算；断档时有冻结卡自动用一张。
  *  牛劲：完成训练 / PR / 守约周 / 连胜里程碑 / 升级 / 周期完成，会员 ×1.5；兑换卡券时扣除。 */
 import type { Env } from './env';
@@ -21,7 +21,7 @@ export interface GrowthConfig {
   cyclePoints: number;
   /** 两个周期之间至少几周正常训练 */
   cycleMinWeeks: number;
-  /** 15 级的累计成长值门槛，levels[0] = 0（牛犊 1）…levels[14]（米洛 3） */
+  /** 15 级的累计成长值门槛，levels[0] = 0（牛犊 1）…levels[14]（Milo 3） */
   levels: number[];
   /** 牛劲（brief §4） */
   niujin: { session: number; pr: number; week: number; level: number; stage: number; cycle: number; proRate: number; milestones: Record<number, number> };
@@ -289,7 +289,7 @@ export function growth(env: Env, input: GrowthInput): GrowthState {
   };
 }
 
-export const STAGE_LABEL: Record<Stage, string> = { newborn: '牛犊', young: '小牛', sturdy: '壮牛', bull: '公牛', milo: '米洛' };
+export const STAGE_LABEL: Record<Stage, string> = { newborn: '牛犊', young: '小牛', sturdy: '壮牛', bull: '公牛', milo: 'Milo' };
 
 /** 奖励弹窗优先级（brief §4）：升段 > PR > 连胜里程碑 > 升小级 > 周期完成；守约周、冻结卡、降级只进消息 */
 export const REWARD_PRIORITY: EventKind[] = ['stage', 'pr', 'streak', 'level', 'cycle'];

diff --git a/src/components/growth.tsx b/src/components/growth.tsx
@@ -50,7 +50,7 @@ export function GrowthBar({ stage, sub, progress, lift, cycles }: { stage: Masco
         <span className={s.fill} style={{ '--p': max ? 1 : progress } as CSSProperties} />
       </div>
       <p className={cx('milo-text-caption', s.hint)}>
-        {max ? '米洛满级。接下来比的只有昨天的自己。'
+        {max ? 'Milo 满级。接下来比的只有昨天的自己。'
           : <>{lift ? <>{lift.name}预估 1RM 再涨 <b>{lift.kg} kg</b></> : '再创一次纪录'}{cycles ? <>，或再完成 <b>{cycles} 个周期</b></> : null}{near ? ' · 快到了' : ''}</>}
       </p>
     </div>
@@ -213,7 +213,7 @@ const PERKS: [string, string, string][] = [
 ];
 const PLANS: Record<'month' | 'year' | 'trial', [string, string, string]> = { month: ['月度', '¥18', '/ 月'], year: ['年度', '¥128', '/ 年 · 约 ¥10.7 / 月'], trial: ['试用', '7 天', '到期前提醒，不自动扣费'] };
 
-/** 付费墙：免费 vs Pro 对比 + 方案（月度 / 年度 / 试用 7 天）；会员态显示到期与管理；success = 开通成功（米洛庆祝）。全程标「演示模式」，支付走假成功 */
+/** 付费墙：免费 vs Pro 对比 + 方案（月度 / 年度 / 试用 7 天）；会员态显示到期与管理；success = 开通成功（Milo 庆祝）。全程标「演示模式」，支付走假成功 */
 export function Paywall({ plan, member, success, onPlan, onBuy }: { plan: 'month' | 'year' | 'trial'; member?: boolean; success?: boolean; onPlan?: (p: 'month' | 'year' | 'trial') => void; onBuy?: () => void }) {
   if (success) return (
     <div className={cx(s.paywall, s.paySuccess)}>

diff --git a/src/components/growth.module.css b/src/components/growth.module.css
@@ -18,7 +18,7 @@
 .badgeHead { position: relative; display: grid; place-items: center; width: calc(var(--milo-space-5xl) * 1.5); aspect-ratio: 1; border-radius: 50%;
   background: radial-gradient(circle at 50% 60%, var(--milo-prim-lime-500-a33), transparent 70%), var(--milo-color-bg-raised);
   box-shadow: 0 0 0 var(--milo-stroke-focus) var(--milo-color-accent-default), 0 0 var(--milo-space-l) var(--milo-prim-lime-500-a33); }
-.badgeHeadImg { display: block; width: 78%; height: 78%; }
+.badgeHeadImg { display: block; width: 100%; height: 100%; }
 .badgeText { display: grid; gap: var(--milo-space-2xs); }
 .badgeText b { line-height: 1; }
 .pips { display: inline-flex; align-items: center; gap: var(--milo-space-2xs); }
@@ -150,7 +150,7 @@
   font: 700 var(--milo-font-size-min) / 1.2 var(--milo-font-ui); color: var(--milo-color-text-on-accent); background: var(--milo-color-accent-default); }
 .paySuccess { justify-items: center; text-align: center; }
 .paySuccess h2, .paySuccess p { margin: 0; }
-.payHero { display: grid; place-items: end center; height: calc(var(--milo-space-5xl) * 3.6); --mascot-unit: calc(var(--milo-stroke-hairline) * 0.26); }
+.payHero { display: grid; place-items: end center; height: calc(var(--milo-space-5xl) * 3.6); --mascot-unit: calc(var(--milo-stroke-hairline) * 0.26); --mascot-max-h: calc(var(--milo-space-5xl) * 3.6 * 0.86); }
 
 /* ---------- 消息 ---------- */
 .msg { display: flex; align-items: center; gap: var(--milo-space-m); padding: var(--milo-space-s) 0; border-bottom: var(--milo-stroke-hairline) solid var(--milo-color-line-default); color: var(--milo-color-text-primary); }

diff --git a/src/components/Reward.module.css b/src/components/Reward.module.css
@@ -39,8 +39,8 @@
 
 /* ---------- 舞台：光芒、光晕、冲击波、碎屑、小牛 ---------- */
 .stageArea { position: relative; display: grid; place-items: end center; width: 100%; height: calc(var(--milo-space-5xl) * 4); margin-top: calc(var(--milo-space-s) * -1);
-  --mascot-unit: calc(var(--milo-stroke-hairline) * 0.27); }
-.card[data-kind='level'] .stageArea, .card[data-kind='cycle'] .stageArea { height: calc(var(--milo-space-5xl) * 3.4); }
+  --mascot-unit: calc(var(--milo-stroke-hairline) * 0.27); --mascot-max-h: calc(var(--milo-space-5xl) * 4 * 0.86); }
+.card[data-kind='level'] .stageArea, .card[data-kind='cycle'] .stageArea { height: calc(var(--milo-space-5xl) * 3.4); --mascot-max-h: calc(var(--milo-space-5xl) * 3.4 * 0.86); }
 .rays { position: absolute; left: 50%; top: 46%; width: 190%; aspect-ratio: 1; translate: -50% -50%; border-radius: 50%; pointer-events: none; z-index: -1;
   background: repeating-conic-gradient(from var(--spin), color-mix(in srgb, var(--milo-prim-lime-500) 22%, transparent) 0 6deg, transparent 6deg 18deg);
   -webkit-mask: radial-gradient(closest-side, black 8%, transparent 70%); mask: radial-gradient(closest-side, black 8%, transparent 70%);

diff --git a/src/playground/Playground.module.css b/src/playground/Playground.module.css
@@ -90,7 +90,8 @@
 .rewardLog { display: grid; gap: var(--milo-space-2xs); padding: var(--milo-space-s); border-radius: var(--milo-radius-m); background: var(--milo-color-bg-raised); color: var(--milo-color-text-secondary); }
 .rewardLog p { margin: 0; }
 .growCol { display: grid; gap: var(--milo-space-xs); width: 100%; }
-.ageStage { display: grid; place-items: end center; height: calc(var(--milo-space-5xl) * 4); border-radius: var(--milo-radius-l); background: var(--milo-color-bg-raised); --mascot-unit: calc(var(--milo-stroke-hairline) * 0.32); }
+.ageStage { display: grid; place-items: end center; height: calc(var(--milo-space-5xl) * 4); padding-bottom: var(--milo-space-s); border-radius: var(--milo-radius-l); background: var(--milo-color-bg-raised); overflow: hidden;
+  --mascot-unit: calc(var(--milo-stroke-hairline) * 0.26); --mascot-max-h: calc(var(--milo-space-5xl) * 4 * 0.8); }
 .ageRange { width: 100%; accent-color: var(--milo-color-accent-default); }
 .curve { width: 100%; height: auto; overflow: visible; font-family: var(--milo-font-ui); }
 .curveGrid { stroke: var(--milo-color-line-default); stroke-width: 0.5; }

diff --git a/src/engine/growth.sim.test.ts b/src/engine/growth.sim.test.ts
@@ -10,7 +10,7 @@ import { DAY } from './sets';
 
 const env = demoEnv();
 const WEEKS = 182;
-/** 进阶用户（稳定训练）到达第 1…14 级的目标周数（2026-10-05 用户拍板：小牛≈2 月、壮牛≈6 月、公牛≈12 月、米洛≈24 月；前 2 个月每 2–3 周升一小级） */
+/** 进阶用户（稳定训练）到达第 1…14 级的目标周数（2026-10-05 用户拍板：小牛≈2 月、壮牛≈6 月、公牛≈12 月、Milo≈24 月；前 2 个月每 2–3 周升一小级） */
 export const TARGET_WEEKS = [2.5, 5, 8, 12, 18, 26, 34, 43, 52, 64, 78, 104, 130, 156];
 const wk = (ms: number) => (ms - SIM_START) / (7 * DAY);
 
@@ -41,7 +41,7 @@ describe('牛龄曲线', () => {
     expect(n[6]!).toBeGreaterThan(8);
   });
 
-  it('老手（增幅很小）也能靠周期和 PR 稳步升级：一年内到壮牛，三年半内到米洛', () => {
+  it('老手（增幅很小）也能靠周期和 PR 稳步升级：一年内到壮牛，三年半内到 Milo', () => {
     const a = runs.advanced.reach;
     expect(a[3]!).toBeLessThanOrEqual(16);
     expect(a[6]!).toBeLessThanOrEqual(52);
